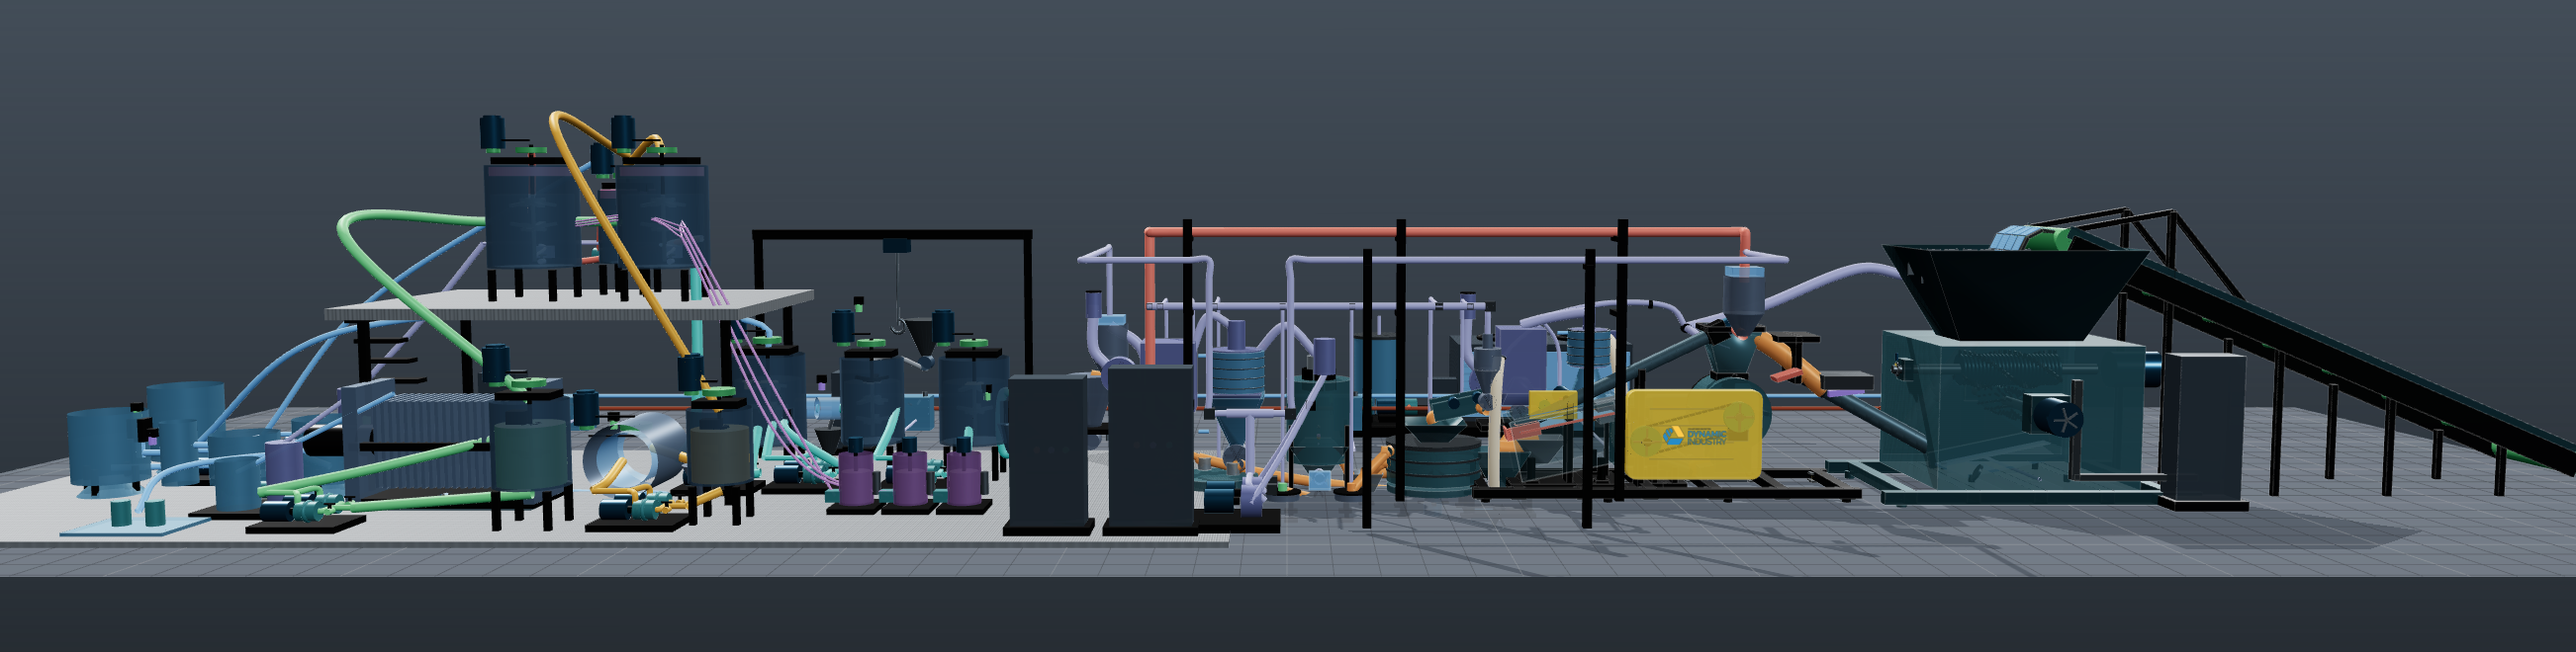
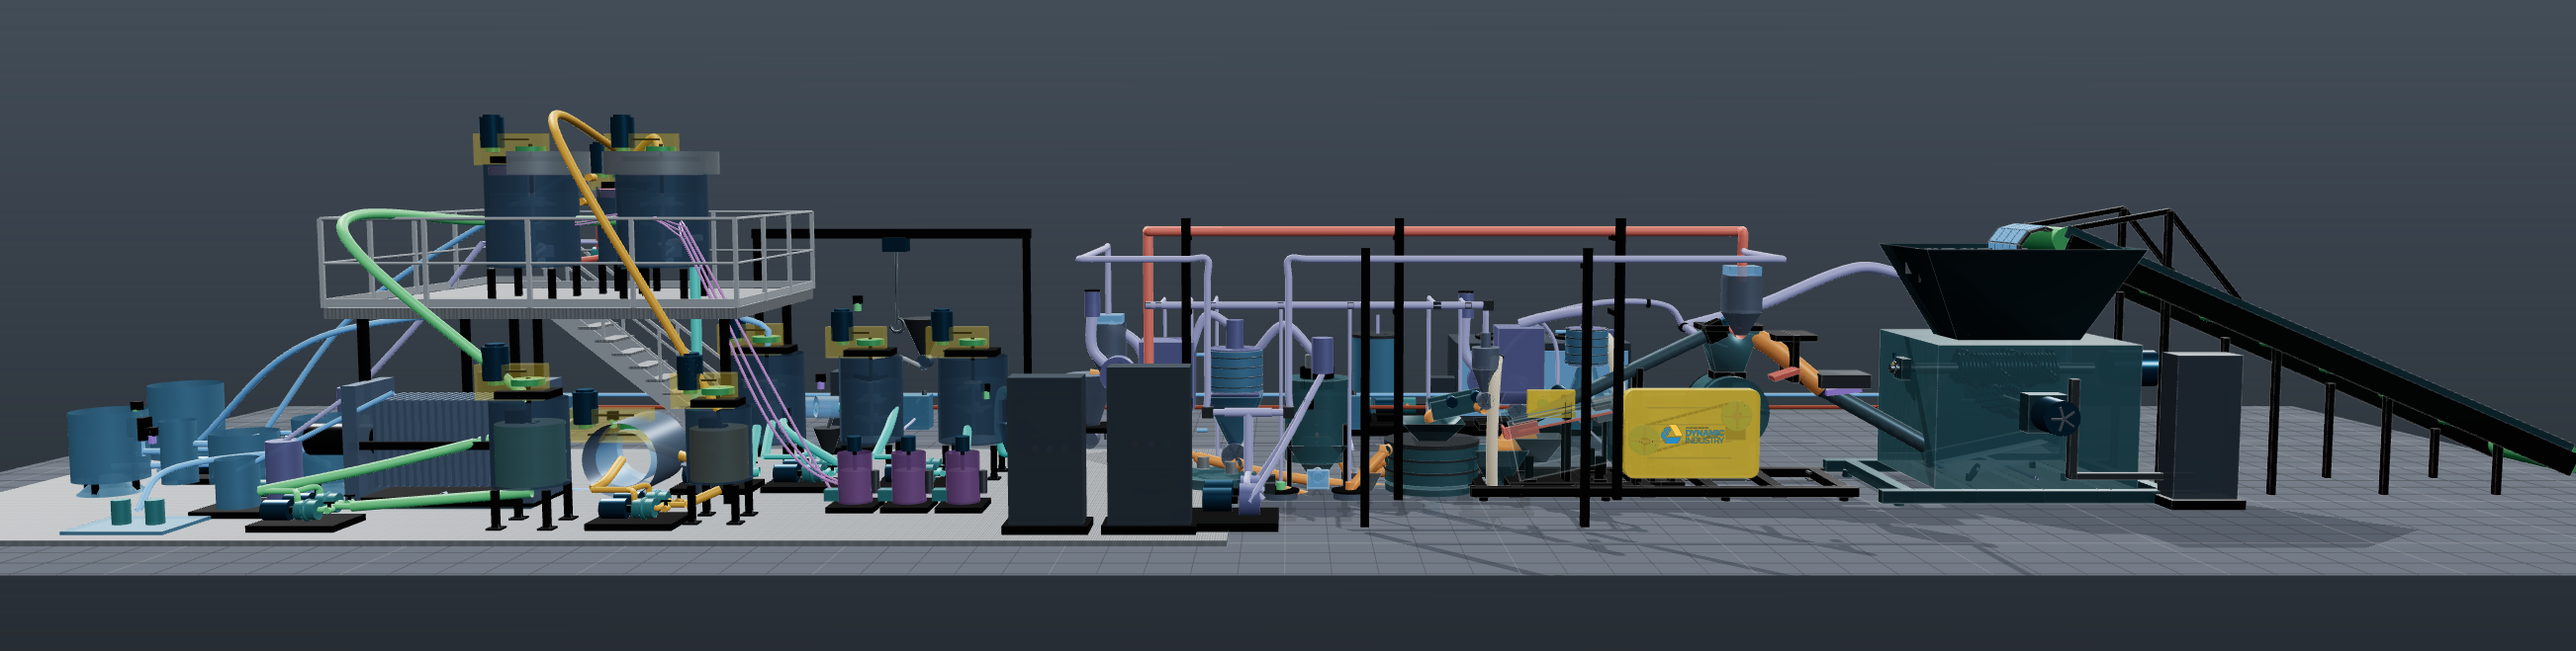
습식부에 난간·계단·라우더를 세운다 — BOM 에만 있던 형상
"장비가 엉성해 보인다"는 지적을 근접 렌더 8장과 코드·BOM 대조로 확인했다.
문제는 디테일 부족이 아니라 BOM·설치사양에 명시된 부품이 3D 형상으로 만들어지지
않은 것이었다. 문서 층은 FC-001~FC-051 까지 촘촘한데 형상 층이 못 따라갔다.

ST-201 접근계단은 형상 자체가 깨져 있었다. 발판이 x로 0.12씩만 전진하면서 길이가
0.62라 서로 겹쳤고, 경사가 66.8°로 사양(계단 유효폭 800·경사 ≤45°)을 넘었으며,
최상단 y 2.14 가 데크 상면 2.51 에 0.37 m 못 미쳤다. 게다가 x 16.98→17.82 로
데크(x≤17.01) 바깥으로 올라가 도착점이 허공이었다.

- wetAccessStair() 신설. 단높이를 단수에서 나눠 얻고 주로를 going×단수로 잡아
  단이 반드시 일정하고 경사가 정확히 atan(rise/going) 이 된다. 13단 × 0.1931 m,
  단너비 0.24, 경사 38.82°, 유효폭 0.80. 스트링거·손잡이 H900·중간대·난간기둥 포함.
- 배치는 지상 점유를 실측해 정했다. 데크 북쪽 z≈2.6 통로가 3 m 직선주로가 서는
  유일한 빈 자리다. MH-401 호이스트 지주(x 12.84)를 피해 x 13.00 에서 시작하고,
  +x 로 올라가 상단이 모노레일(x≤12.90, y 3.28) 밑으로 들어가지 않게 했다.
- 상단에 랜딩을 놓아 데크 모서리(x 17.01)에 붙였다. 난간이 데크 것과 이어진다.

난간은 BOM FC-003(계단·난간 세트 W800·H1100·토보드 포함)과 설치사양(2층 작업대
난간 H1,100·토보드 100)에 있는데 3D 에 0건이었다. GL+2.51 m 데크가 사방 열려
있었다. wetRailing() 을 만들어 데크 4변과 랜딩 2변에 세우고, 랜딩이 붙는
북동쪽(x 16.12–17.01)만 진입구로 비웠다.

부유선별 라우더도 BOM(FC-011 360° peripheral·레벨조정 위어 / FC-021 single lip /
FC-031 180°)에만 있었다. 거품이 위어를 넘어 라우더로 흘러 정광으로 빠지는 것이
부선 셀을 교반조와 구분짓는 부분인데, flotationCell() 은 동체·포말층·기포만
만들고 있었다. 위어 립·환상 바닥·외벽·정광 토출노즐을 셀별 각도로 세웠다.
실린더는 θ=0 이 +Z, 링은 회전 뒤 φ=0 이 +X 라 φ = π/2 − θ 로 맞춰야 호가 겹친다.

곁들여 둘: 탱크 지지다리에 기초 베이스플레이트·앵커볼트(건식 SH-002 와 같은 처리),
교반 구동부에 반투명 V벨트 메쉬 안전커버(건식 P10 과 같은 성격).

검증: 구문 6블록 통과, 네트워크 차단 로드 오류 0, 표시 모드 5종 전환 오류 0.
치수 실측 — 발판 12매, 단너비 0.240 일정, 유효폭 0.80, 경사 38.82°,
상부 손잡이 y 3.610(= 데크 2.51 + 1.10). 전경 렌더 3장 재촬영.
[…]

diff --git a/docs/drawings/pv-recycling-miniapp.html b/docs/drawings/pv-recycling-miniapp.html
@@ -17352,6 +17352,11 @@ window.__HSG_CANNON__=Object.freeze({"AABB":AABB,"ArrayCollisionMatrix":ArrayCol
     wetWaterMaterial.opacity = 0.58;
     wetWaterMaterial.depthWrite = false;
     wetWaterMaterial.userData.baseOpacity = 0.58;
+    const wetGuardMaterial = material.safety.clone();
+    wetGuardMaterial.transparent = true;
+    wetGuardMaterial.opacity = 0.28;
+    wetGuardMaterial.depthWrite = false;
+    wetGuardMaterial.userData.baseOpacity = 0.28;
     const wetFrothMaterial = material.particleB.clone();
     wetFrothMaterial.transparent = true;
     wetFrothMaterial.opacity = 0.42;
@@ -17413,6 +17418,58 @@ window.__HSG_CANNON__=Object.freeze({"AABB":AABB,"ArrayCollisionMatrix":ArrayCol
       return deck;
     }
 
+    // ---- 난간·계단 (FC-003 계단·난간 세트 · SS400 HDG) ---------------------
+    // BOM(FC-003)과 설치사양에 「2층 작업대 난간 H1,100·토보드 100 / 계단 유효폭 800·
+    // 경사 ≤45°」가 있는데 3D 에는 형상이 없어 GL+2.51 m 데크가 사방 열려 있었다.
+    const hdgMaterial = makeMaterial(gratingColor, 0.58, 0.30);   // 용융아연도금 강재
+    const RAIL_TOP_H = 1.10;      // 상부 손잡이 — 설치사양 H1,100
+    const RAIL_MID_H = 0.55;      // 중간대
+    const RAIL_TOE_H = 0.10;      // 토보드 — 설치사양 100
+    const RAIL_BAY_MAX = 1.50;    // 기둥 최대 간격
+
+    // 한 변씩 세운다. 계단 진입구는 그 변을 두 토막으로 불러 비운다.
+    // 실린더 지오메트리는 +Y 축이라 Z로 −90° 눕혀 +X 로 만든 뒤 Y로 −yaw 돌린다.
+    // three 의 XYZ 오일러는 RX·RY·RZ 순서라 [0, −yaw, −π/2] 가 곧 RY(−yaw)·RZ(−π/2) 다.
+    function wetRailing(parent, tag, x0, z0, x1, z1, y) {
+      const dx = x1 - x0, dz = z1 - z0;
+      const span = Math.hypot(dx, dz);
+      if (span < 0.08) return;
+      const yaw = Math.atan2(dz, dx);
+      const mx = (x0 + x1) / 2, mz = (z0 + z1) / 2;
+      const bays = Math.max(1, Math.ceil(span / RAIL_BAY_MAX));
+      for (let i = 0; i <= bays; i += 1) {
+        const t = i / bays;
+        wetBox(parent, [0.05, RAIL_TOP_H, 0.05], [x0 + dx * t, y + RAIL_TOP_H / 2, z0 + dz * t], hdgMaterial, `${tag} 난간기둥`, [0, -yaw, 0]);
+      }
+      wetCylinder(parent, 0.021, span, [mx, y + RAIL_TOP_H, mz], hdgMaterial, `${tag} 상부 손잡이 H1,100`, 14, [0, -yaw, -Math.PI / 2]);
+      wetCylinder(parent, 0.017, span, [mx, y + RAIL_MID_H, mz], hdgMaterial, `${tag} 중간대`, 12, [0, -yaw, -Math.PI / 2]);
+      wetBox(parent, [span, RAIL_TOE_H, 0.03], [mx, y + 0.01 + RAIL_TOE_H / 2, mz], hdgMaterial, `${tag} 토보드 100`, [0, -yaw, 0]);
+    }
+
+    // 직선 계단 한 짝. 단높이를 단수에서 나눠 얻으므로 단이 반드시 일정하고,
+    // 주로 길이를 going × 단수로 잡아 경사가 정확히 atan(rise/going) 이 된다.
+    function wetAccessStair(parent, tag, x0, z, topY, width = 0.80, going = 0.24) {
+      const risers = Math.max(2, Math.round(topY / 0.20));
+      const rise = topY / risers;
+      const run = going * risers;
+      const slope = Math.atan2(rise, going);
+      const tread = gratingMaterial(going + 0.04, width);
+      for (let step = 1; step < risers; step += 1) {
+        wetBox(parent, [going + 0.04, 0.04, width], [x0 + (step - 0.5) * going, step * rise - 0.02, z], tread, `${tag} 발판 ${step}/${risers - 1}`);
+      }
+      const diag = Math.hypot(run, topY);
+      for (const side of [-1, 1]) {
+        const sz = z + side * (width / 2 - 0.02);
+        wetBox(parent, [diag, 0.26, 0.03], [x0 + run / 2, topY / 2 - 0.05, sz], hdgMaterial, `${tag} 스트링거`, [0, 0, slope]);
+        wetBox(parent, [diag, 0.04, 0.04], [x0 + run / 2, topY / 2 + 0.90, sz], hdgMaterial, `${tag} 계단 손잡이 H900`, [0, 0, slope]);
+        wetBox(parent, [diag, 0.03, 0.03], [x0 + run / 2, topY / 2 + 0.45, sz], hdgMaterial, `${tag} 계단 중간대`, [0, 0, slope]);
+        for (const t of [0.14, 0.40, 0.66, 0.92]) {
+          wetBox(parent, [0.04, 0.90, 0.04], [x0 + run * t, topY * t + 0.45, sz], hdgMaterial, `${tag} 계단 난간기둥`);
+        }
+      }
+      return { risers, rise, run, slopeDeg: slope * 180 / Math.PI };
+    }
+
     function wetMesh(parent, geometry, sourceMaterial, position, name, rotation = null) {
       const mesh = new THREE.Mesh(geometry, sourceMaterial);
       mesh.position.set(position[0], position[1], position[2]);
@@ -17459,6 +17516,9 @@ window.__HSG_CANNON__=Object.freeze({"AABB":AABB,"ArrayCollisionMatrix":ArrayCol
       const motorPulley = wetCylinder(parent, 0.085, 0.075, [motorX, y, z], wetPulleyMaterial, `${tag} 모터 풀리`, 30);
       wetBox(parent, [Math.abs(motorX - shaftX), 0.025, 0.030], [(motorX + shaftX) / 2, y + 0.13, z - 0.05], wetBeltMaterial, `${tag} V벨트 상부`);
       wetBox(parent, [Math.abs(motorX - shaftX), 0.025, 0.030], [(motorX + shaftX) / 2, y - 0.13, z + 0.05], wetBeltMaterial, `${tag} V벨트 하부`);
+      // 회전 구동부가 노출돼 있었다. 건식 P10「벨트 메쉬 안전커버」와 같은 성격의
+      // 커버를 씌우되, 점검이 되도록 반투명 메쉬로 둔다.
+      wetBox(parent, [Math.abs(motorX - shaftX) + 0.42, 0.42, 0.20], [(motorX + shaftX) / 2, y, z], wetGuardMaterial, `${tag} V벨트 메쉬 안전커버`);
       wetRotors.push({ activation, rpm, parts: [motor, motorFan, drivenPulley, motorPulley], axis: "y" });
     }
     function wetTank(tag, x, z, radius, height, activation, options = {}) {
@@ -17466,7 +17526,14 @@ window.__HSG_CANNON__=Object.freeze({"AABB":AABB,"ArrayCollisionMatrix":ArrayCol
       group.name = tag;
       unifiedWet.add(group);
       const segments = options.octagonal ? 8 : 36;
-      for (const sx of [-1, 1]) for (const sz of [-1, 1]) wetBox(group, [0.075, 0.46, 0.075], [x + sx * radius * 0.68, 0.25, z + sz * radius * 0.68], material.frame, `${tag} 지지다리`);
+      // 지지다리가 각기둥만 서 있어 바닥에 얹힌 것처럼 보였다. 기초 베이스플레이트와
+      // 앵커볼트까지 붙여야 하중이 어디로 가는지 읽힌다(건식 SH-002 와 같은 처리).
+      for (const sx of [-1, 1]) for (const sz of [-1, 1]) {
+        const lx = x + sx * radius * 0.68, lz = z + sz * radius * 0.68;
+        wetBox(group, [0.075, 0.46, 0.075], [lx, 0.25, lz], material.frame, `${tag} 지지다리`);
+        wetBox(group, [0.17, 0.022, 0.17], [lx, 0.031, lz], material.frame, `${tag} 기초 베이스플레이트`);
+        for (const ax of [-1, 1]) wetCylinder(group, 0.007, 0.06, [lx + ax * 0.058, 0.062, lz + ax * 0.058], material.silverClamp, `${tag} 기초 앵커볼트`, 10);
+      }
       wetCylinder(group, radius, height, [x, 0.50 + height / 2, z], wetBodyMaterial, `${tag} 습식 공정조 동체`, segments, null, true);
       wetCylinder(group, radius * 0.88, height * 0.70, [x, 0.52 + height * 0.35, z], options.liquid || wetWaterMaterial, `${tag} 운전 액위`, segments);
       const rotor = new THREE.Group();
@@ -17486,9 +17553,24 @@ window.__HSG_CANNON__=Object.freeze({"AABB":AABB,"ArrayCollisionMatrix":ArrayCol
       const label = wetLabel(`${tag} · ${options.label || "교반조"}`, [x, 1.12 + height, z]);
       return { group, label, x, z, radius, height };
     }
-    function flotationCell(tag, x, z, radius, height, activation, airRate, impellerRpm) {
+    function flotationCell(tag, x, z, radius, height, activation, airRate, impellerRpm, launder) {
       const cell = wetTank(tag, x, z, radius, height, activation, { liquid: wetWaterMaterial, impellerRpm, label: `${airRate.toFixed(3)} Nm³/min` });
       wetCylinder(cell.group, radius * 0.90, 0.12, [x, 0.54 + height * 0.91, z], wetFrothMaterial, `${tag} 포말층`, 36);
+      // 거품이 위어를 넘어 라우더로 흘러 정광으로 빠지는 것이 부선 셀을 교반조와
+      // 구분짓는 부분인데, BOM(FC-011/021/031)에만 있고 형상이 없었다.
+      // 실린더는 θ=0 이 +Z, 링은 [π/2,0,0] 회전 뒤 φ=0 이 +X 라 φ = π/2 − θ 로 맞춘다.
+      if (launder) {
+        const rim = 0.50 + height, inner = radius + 0.01, outer = radius + 0.15;
+        const { arc, from, outlet, code, spec } = launder;
+        wetMesh(cell.group, new THREE.CylinderGeometry(inner, inner, 0.14, 40, 1, true, from, arc),
+          material.cover, [x, rim - 0.03, z], `${tag} 레벨조정 위어 립`);
+        wetMesh(cell.group, new THREE.RingGeometry(inner, outer, 40, 1, Math.PI / 2 - from - arc, arc),
+          material.cover, [x, rim - 0.13, z], `${tag} ${code} 라우더 바닥 · ${spec}`, [Math.PI / 2, 0, 0]);
+        wetMesh(cell.group, new THREE.CylinderGeometry(outer, outer, 0.30, 40, 1, true, from, arc),
+          material.cover, [x, rim + 0.02, z], `${tag} 라우더 외벽`);
+        wetCylinder(cell.group, 0.05, 0.18, [x + Math.sin(outlet) * (outer + 0.06), rim - 0.17, z + Math.cos(outlet) * (outer + 0.06)],
+          material.pipeConcentrate, `${tag} 정광 토출노즐`, 18, [Math.PI / 2, 0, 0]);
+      }
       for (let index = 0; index < 20; index += 1) {
         const bubble = wetMesh(cell.group, new THREE.SphereGeometry(0.026 + (index % 4) * 0.004, 9, 7), wetFrothMaterial.clone(), [x, 0.62, z], `${tag} 부선기포 ${index + 1}`);
         bubble.userData.cellX = x;
@@ -17732,14 +17814,38 @@ window.__HSG_CANNON__=Object.freeze({"AABB":AABB,"ArrayCollisionMatrix":ArrayCol
     // Two-level flotation deck: FC-202 is cleaner and FC-203 is scavenger.
     wetBox(unifiedWet, [5.10, 0.14, 3.45], [14.46, 2.44, 0.18], gratingMaterial(5.10, 3.45), "ST-201 2층 부유선별 그레이팅");
     for (const x of [12.18, 16.72]) for (const z of [-1.20, 1.50]) wetBox(unifiedWet, [0.10, 2.48, 0.10], [x, 1.20, z], material.frame, "ST-201 2층 지지기둥");
-    for (let step = 0; step < 8; step += 1) wetBox(unifiedWet, [0.62, 0.06, 0.26], [16.98 + step * 0.12, 0.18 + step * 0.28, 1.08], material.frame, "ST-201 접근계단");
-    const fc201 = flotationCell("FC-201", 13.38, 0.08, 0.58, 1.34, 420, 0.060, DRIVE_RPM.flotationRougher);
+    // ---- ST-201 2층 접근계단·난간 (FC-003) --------------------------------
+    // 종전 계단은 발판이 x로 0.12씩만 전진하면서 길이가 0.62라 서로 겹쳤고, 경사 66.8°로
+    // 사양(≤45°)을 넘었으며, 최상단 y=2.14 가 데크 상면 2.51 에 0.37 m 못 미친 데다
+    // 데크(x≤17.01) 바깥으로 올라가 도착점이 허공이었다. 전부 다시 세운다.
+    // 지상 점유를 재보면 데크 북쪽 z≈2.6 통로가 3 m 직선주로가 서는 유일한 빈 자리다.
+    // MH-401 호이스트 지주(x 12.84)를 피해 x 13.00 에서 시작하고, +x 로 올라가 상단이
+    // 모노레일(x≤12.90, y 3.28) 밑으로 들어가지 않게 한다.
+    const DECK_TOP_Y = 2.51;                     // 데크 상면 = 2.44 + 0.14/2
+    const DECK_X0 = 11.91, DECK_X1 = 17.01;      // 5.10 폭
+    const DECK_Z0 = -1.545, DECK_Z1 = 1.905;     // 3.45 깊이
+    const STAIR_X0 = 13.00, STAIR_Z = 2.60;
+    const stair = wetAccessStair(unifiedWet, "ST-201 접근계단", STAIR_X0, STAIR_Z, DECK_TOP_Y);
+    // 계단 상단 → 데크를 잇는 랜딩. 동쪽 끝을 데크 모서리(x 17.01)에 맞춰 난간이 이어진다.
+    const LAND_X0 = STAIR_X0 + stair.run, LAND_X1 = DECK_X1, LAND_Z1 = 3.00;
+    wetBox(unifiedWet, [LAND_X1 - LAND_X0, 0.14, LAND_Z1 - 1.85], [(LAND_X0 + LAND_X1) / 2, 2.44, (1.85 + LAND_Z1) / 2],
+      gratingMaterial(LAND_X1 - LAND_X0, LAND_Z1 - 1.85), "ST-201 계단 랜딩");
+    for (const lz of [2.10, 2.88]) wetBox(unifiedWet, [0.10, 2.44, 0.10], [16.30, 1.22, lz], material.frame, "ST-201 랜딩 지지기둥");
+    // 데크 둘레 난간 — 랜딩이 붙는 북동쪽(x 16.12…17.01)만 비운다.
+    wetRailing(unifiedWet, "ST-201 남측", DECK_X0, DECK_Z0, DECK_X1, DECK_Z0, DECK_TOP_Y);
+    wetRailing(unifiedWet, "ST-201 동측", DECK_X1, DECK_Z0, DECK_X1, DECK_Z1, DECK_TOP_Y);
+    wetRailing(unifiedWet, "ST-201 북측", DECK_X0, DECK_Z1, LAND_X0, DECK_Z1, DECK_TOP_Y);
+    wetRailing(unifiedWet, "ST-201 서측", DECK_X0, DECK_Z1, DECK_X0, DECK_Z0, DECK_TOP_Y);
+    // 랜딩 난간 — 계단이 들어오는 서쪽과 데크로 나가는 남쪽은 열어 둔다.
+    wetRailing(unifiedWet, "ST-201 랜딩 동측", LAND_X1, DECK_Z1, LAND_X1, LAND_Z1, DECK_TOP_Y);
+    wetRailing(unifiedWet, "ST-201 랜딩 북측", LAND_X0, LAND_Z1, LAND_X1, LAND_Z1, DECK_TOP_Y);
+    const fc201 = flotationCell("FC-201", 13.38, 0.08, 0.58, 1.34, 420, 0.060, DRIVE_RPM.flotationRougher, { arc: Math.PI * 2, from: 0, outlet: 0.681, code: "FC-011", spec: "360° peripheral" });
     fc201.group.position.y = 2.44;
     fc201.label.position.y += 2.44;
-    const fc202 = flotationCell("FC-202", 14.24, 1.14, 0.40, 1.00, 360, 0.020, DRIVE_RPM.flotationCleanerScav);
+    const fc202 = flotationCell("FC-202", 14.24, 1.14, 0.40, 1.00, 360, 0.020, DRIVE_RPM.flotationCleanerScav, { arc: Math.PI / 2, from: Math.PI / 4, outlet: Math.PI / 2, code: "FC-021", spec: "single lip" });
     fc202.group.position.y = 2.44;
     fc202.label.position.y += 2.44;
-    const fc203 = flotationCell("FC-203", 15.10, 0.08, 0.58, 1.34, 360, 0.075, DRIVE_RPM.flotationCleanerScav);
+    const fc203 = flotationCell("FC-203", 15.10, 0.08, 0.58, 1.34, 360, 0.075, DRIVE_RPM.flotationCleanerScav, { arc: Math.PI, from: -Math.PI, outlet: -Math.PI / 2, code: "FC-031", spec: "180° launder" });
     fc203.group.position.y = 2.44;
     fc203.label.position.y += 2.44;
     wetTube(unifiedWet, [pp201.discharge, [12.96, 0.68, -0.28], [12.96, 3.58, 0.08]], 0.070, wetFeedMaterial, "PP-201A/B → FC-201 러퍼 급광", 1920, 8);

diff --git a/docs/drawings/renders/README.md b/docs/drawings/renders/README.md
@@ -6,13 +6,17 @@
 
 | 파일 | 시점 | 크기 |
 |---|---|---|
-| `plant-view-top.png` | 평면 — 거의 수직(85°) 하향 | 2604 × 900 |
+| `plant-view-top.png` | 평면 — 거의 수직(85°) 하향 | 2604 × 899 |
 | `plant-view-side-a.png` | 측면 A — +z 에서 −z 를 봄. 투입부가 왼쪽 | 2604 × 659 |
 | `plant-view-side-b.png` | 측면 B — −z 에서 +z 를 봄. 측면 A 의 반대편 | 2604 × 659 |
 
 습식부 데크는 밝은 회색 강재 그레이팅이다. 이전 판에서는 `material.frame`(metalness 0.76 · 환경맵 없음)
 이라 평면에서 L≈15 의 검은 판으로 잡혀 그 위 장비를 눌렀다. 지금은 L≈160 으로, 스튜디오 배경(L≈114)
 보다 밝고 중간톤 장비가 그 위에서 읽힌다.
+
+습식부에는 ST-201 2층 데크 난간(H1,100·중간대·토보드 100)과 접근계단(유효폭 800·경사 38.8°),
+부유선별 셀 라우더(FC-011 360° / FC-021 single lip / FC-031 180°)가 서 있다. BOM 에는 있는데
+3D 형상이 없던 것을 채운 것이라, 이 그림은 BOM 과 형상이 일치하는 상태를 보여 준다.
 
 ## 촬영 기준
 
